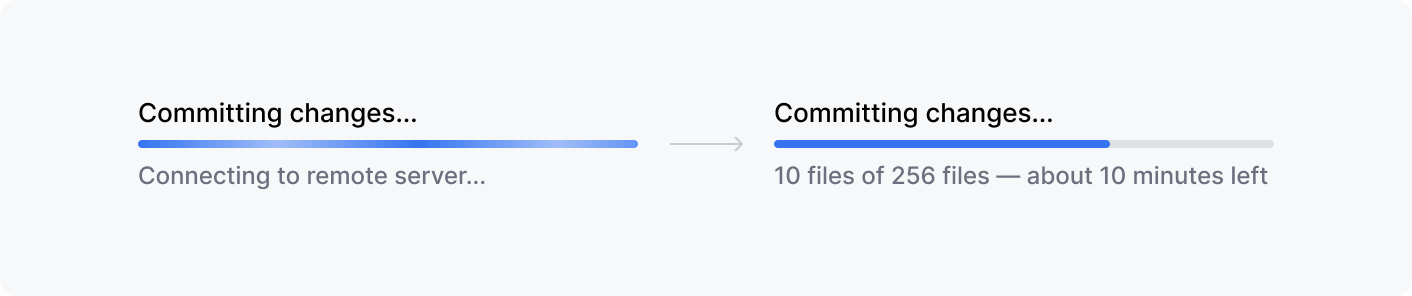
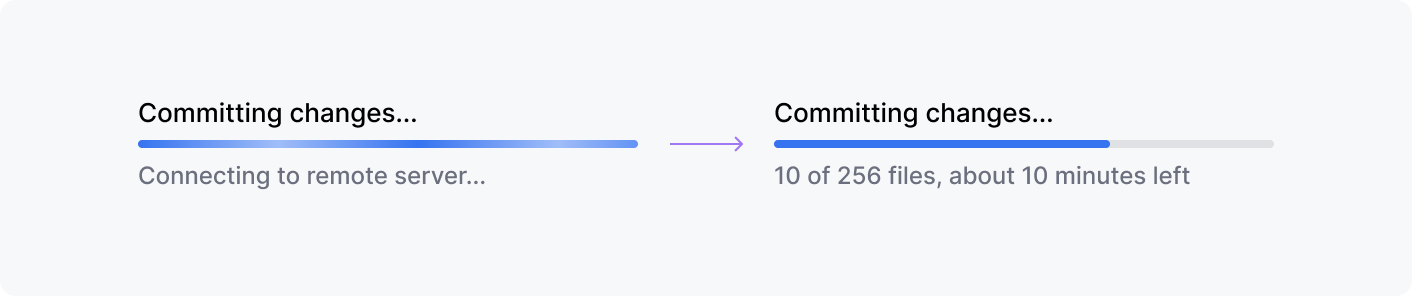
Refine progress bar documentation and update images
Revised and enhanced descriptions for process names and details, adding clearer guidance and examples. Updated progress bar images with new variants for light and dark modes. Simplified layout and improved visuals for better readability and organization.

Changed region(s): [[0.5609, 0.5473, 0.9037, 0.6385], [0.4986, 0.4561, 0.5297, 0.5169]]

diff --git a/topics/ui/controls/progress_bar.md b/topics/ui/controls/progress_bar.md
@@ -31,20 +31,27 @@ If an indeterminate process reaches a point where its duration can be determined
 
 ### Process name and details
 
-A progress bar can have a process name and process details. For wording, follow the rules for [progress text](progress_text.md).
+A progress bar can have a process name and process details.
 
-#### Process name
 Process name — the name of the operation being performed.
 
+Process details — information about the current stage of an operation. They make long-running tasks more predictable and manageable.
+
+Details example:
+* The current step — Uploading file 3 of 10.
+* The name of a file, module, or library – Fetching guava-31.1.jar.
+* Remaining time or percentage completed.
+* Other useful progress information.
+
+For wording, follow the rules for [progress text](progress_text.md).
+
+#### Placement
+
+Place a process name above the progress bar and a process details under it in one line.</br>The length of the process details are limited by the progress bar.
+![](11 process_details.png){width=706}
+
+
 <table style="none" border="false">
-  <tr>
-    <td width="378">
-      <img src="06 process_name.png" alt="Process name above the bar"/>
-    </td>
-    <td>
-      <p>Place a process name above the progress bar.</p>
-    </td>
-  </tr>
   <tr>
     <td width="378">
       <img src="07 process_name_on_the_left.png" alt="Process name on the left"/>
@@ -71,18 +78,7 @@ Process name — the name of the operation being performed.
   </tr>
 </table>
 
-#### Process details
-Process details — information that shows the user what stage the current operation is at and what it relates to. This is especially important for long-running tasks, as it makes the process more predictable and manageable.
 
-Process details may include:
-
-* The current step, for example, Uploading file 3 of 10.
-* The remaining time or percentage completed.
-* The name of the file, module, or library being processed, for example, Fetching guava-31.1.jar.
-* Any other useful information about the operation’s progress.
-
-Place process details under the progress bar in one line. The length of the comment is limited by the progress bar.
-![](11 process_details.png){width=706}
 
 #### In dialog
 
